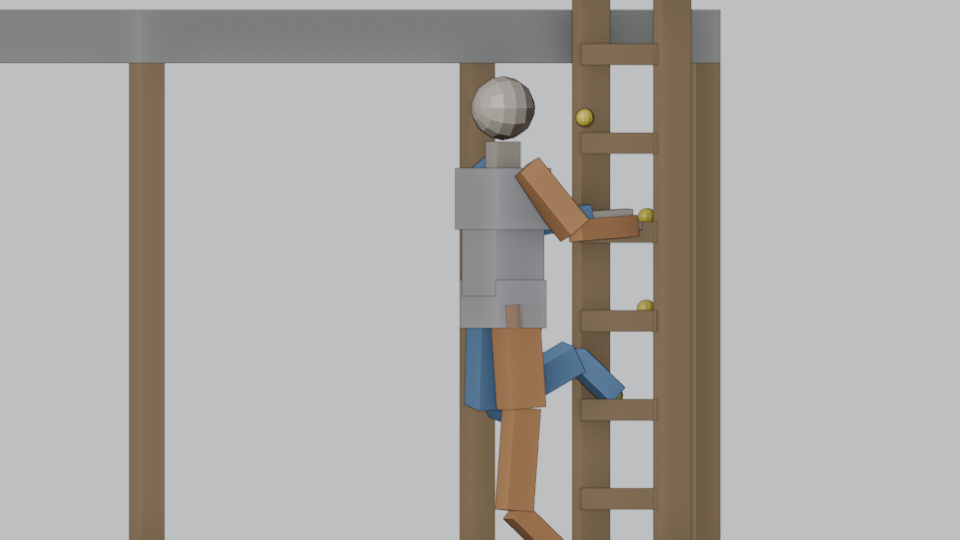
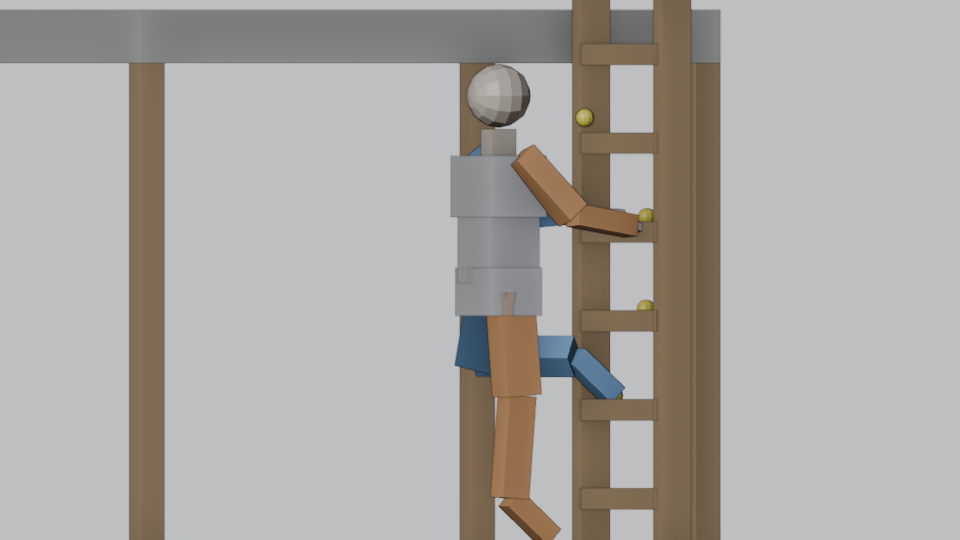
docs(ladders): player README and animation guide match the final 0.2.7 behaviour; guide screenshots re-rendered

Changed region(s): [[0.4688, 0.1185, 0.6562, 1.0]]

diff --git a/src/ConcernedLadders/Package/README.md b/src/ConcernedLadders/Package/README.md
@@ -4,7 +4,7 @@ Vertical ladders for compact Valheim builds. Three 2 m hammer pieces: Wood
 Ladder, Copper Ladder and Iron Ladder. Stack matching or mixed materials into a
 continuous run.
 
-**0.2.6 is an internal owner test candidate, not a release.** It is built against
+**0.2.7 is an internal owner playtest candidate, not a release.** It is built against
 Valheim 1.0.20 and tested in single player. Multiplayer, dedicated-server and
 controller play have not been tested yet.
 
@@ -19,21 +19,23 @@ controller play have not been tested yet.
 | **Jump** | Hop off upward and in the direction you are steering (away from the ladder when neutral). Uses the game's own jump and stamina; without enough stamina you simply let go. |
 | **Crouch** | Drop: let go where you are and fall normally. No hop, no stamina. |
 
-Climb either face of a freestanding ladder. At the top of a run the climber steps
-onto a floor beyond the rails or to either side; a closed roof or hatch keeps you
-on the ladder. All controls are the game's own bindings, including remaps.
+Climb either face of a freestanding ladder. Near the top of a run the climber steps
+onto a floor beyond the rails or to either side; with nowhere to step off, or under
+a closed roof or hatch, climbing stops about 1.3 m below the top with both hands
+still on the rungs. All controls are the game's own bindings, including remaps.
 
 **Climbing skill.** Normal and fast climbing raise a native Climbing skill. Higher
 levels make fast climbing and sliding cheaper (up to 25% at level 100); level 20
 unlocks sliding. The skill uses the game's own skill screen, saving and death
 rules.
 
-**Animation.** An original climbing animation authored in Blender: each hand and foot takes its own turn - a hand
-reaches up, the opposite foot recovers knee first, then the other hand and foot - every grip and step on a real rung.
-The body rises a little more slowly while a foot comes up and catches up as the leg pushes. Grabbing the ladder places
-a hand, a low foot, the other hand and the other foot in turn; a midair catch grabs with the hands first. Stop and
-every limb settles on the nearest rung; climb down and the motion retraces itself. Near a flush top the hands take
-the rails and the step onto the floor uses the game's own walk. Other players' clients do not show it yet.
+**Animation.** An original climbing animation authored in Blender: the climber stands off the ladder with the hips
+and chest square to it, and each hand and foot takes its own turn - a hand reaches up, the opposite foot steps two
+rungs, then the other hand and foot - every grip and step on a real rung. Climbing down has its own controlled
+lowering. Stop and every limb settles on a rung within easy reach. Getting on and off is quick: grabbing the ladder,
+a midair catch, stepping off onto a floor at the top or partway up, stepping off at the bottom, and getting on from
+a floor above each take a fraction of a second, the hands and feet simply taking or leaving the rungs. Other
+players' clients do not show it yet.
 
 **Building from the ladder.** You can mount and climb with the hammer equipped and place,
 repair or remove pieces while holding on; your hammer arm uses the game's own animation. In build

diff --git a/src/ConcernedLadders/AnimationSources/README.md b/src/ConcernedLadders/AnimationSources/README.md
@@ -161,10 +161,14 @@ Progress 0 → 1 runs over frames 0–120. For the exits and the top entry, prog
 * **Extra path: location** on each limb control (a knee-led foot over the lip, a hand moving ahead onto the floor).
 * **Body: `CTL_Pelvis`** location Z / Y and rotation X, added to the climbing posture.
 
-Example: to make the lead foot clear the lip higher on the upper exit, select `CTL_Foot.L` in `TopExit`, in the Graph
-Editor show only *Z Location*, select the keys of the bump (frames 18–60) and scale them up.
+**Owner decision 2026-10-27:** getting on and off has no distinct animation. `TopExit`, `SideExit`, `BottomStepOff`
+and `TopEntry` are quick grip hand-overs (only `["weight"]` is keyed, a few hundredths apart per limb) and the runtime
+runs their routes in about 0.45 s; `GroundMount` lasts 0.3 s and `AirCatch` 0.25 s. The `reach`, path and body
+channels are still exported and still work if a future decision brings an authored move back.
 
-![Upper exit](guide/TopExit_f045_side.png)
+Example: to make the hands let go later on the upper exit, select `CTL_Hand.L` and `CTL_Hand.R` in `TopExit`, show
+only the `["weight"]` curve in the Graph Editor and move the keys where it falls to 0 to the right. Then run
+`regenerate.ps1` and accept the change in `GeneratedGaitTests` (the pin names what moved).
 
 ## Edit the posture, bend and stance values
 
@@ -286,9 +290,12 @@ runtime's reversal match picks (`LimbGait.MatchPhase`).
 - Mannequin start (17-00-06): staggered contact entry on mount.
 - Game comparison (16-59-05) and playground (17-01-40): the top exit hands the step to the game's own walk; a deep
   mantle crouch is not used for an ordinary floor.
+- Owner 2026-10-27: the climbing posture (2-rung stride, hips and chest square, pelvis off the rungs) is approved and
+  locked; mounts and dismounts are quick hand-overs; there is no crouch near the top (the runtime exits or stops
+  1.3 m below the top instead).
 
-Cadence: one cycle = `stride_rungs` × 1/3 m of travel. At 0.9 m/s (owner decision) that is 1.11 s; with Run
-(1.2 m/s) 0.83 s. Climbing speed is gameplay and lives in `Domain/ClimbPolicy.cs`.
+Cadence: one cycle = `stride_rungs` × 1/3 m of travel; with the owner-approved 2-rung stride that is 0.67 m. At
+0.9 m/s (owner decision) one cycle takes 0.74 s; with Run (1.2 m/s) 0.56 s. Climbing speed is gameplay and lives in `Domain/ClimbPolicy.cs`.
 
 ## Ownership rules
 
@@ -300,5 +307,6 @@ right arm yields to the game's hammer animation. An interact yields both arms, t
 
 - Fingers keep the native hand pose (no fitted finger curl).
 - Other players see the native pose (no observer transport yet).
-- The very first frames of a ground mount can be out of reach while contacts fade in (counted, never stretched).
+- During a quick mount or dismount a limb can fall back to the game's pose a frame or two early (counted, never
+  stretched).
 - The preview runs only when Blender is allowed to run the file's script; exporting never needs it.
